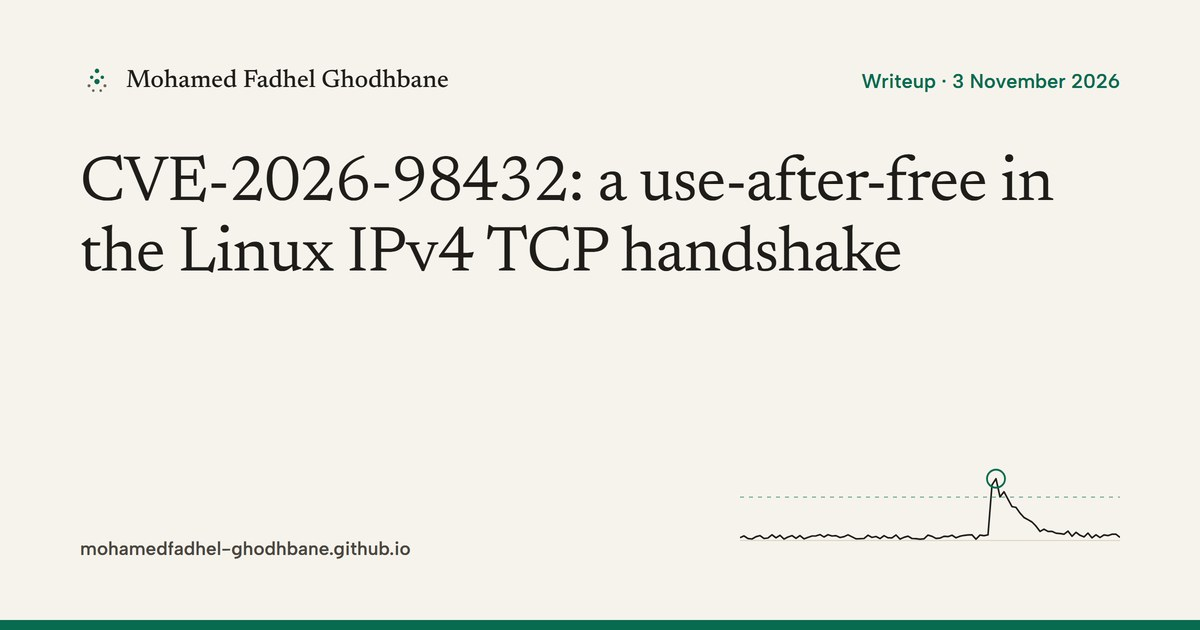
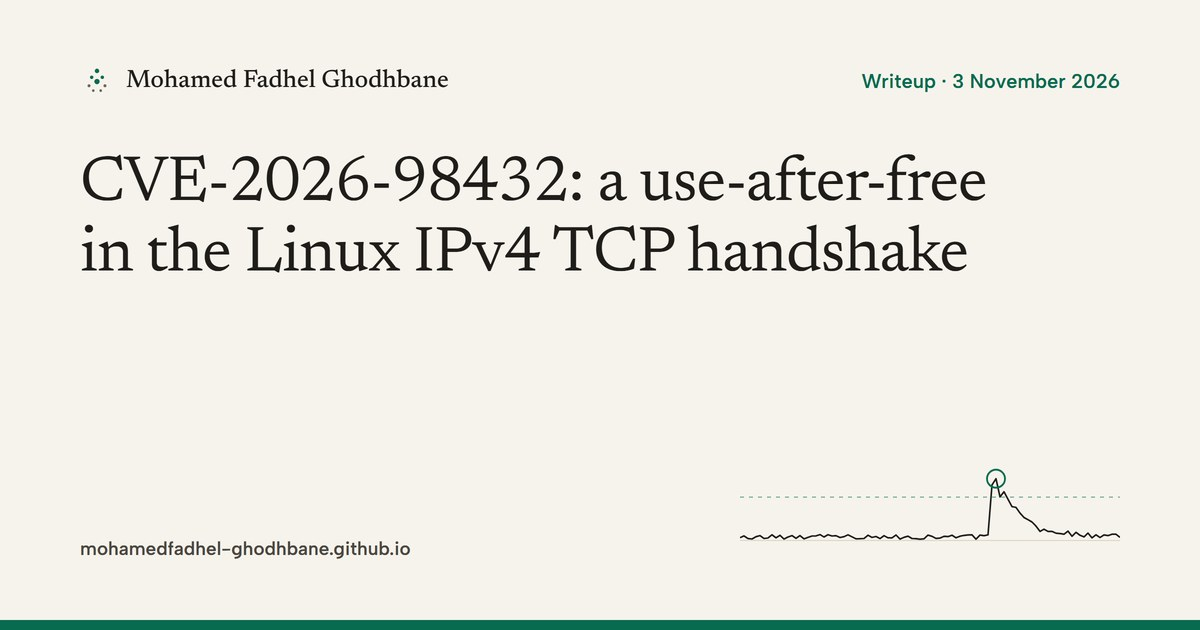
Replace the slogans with what the work is
- Home headline: "Detection engineering for Microsoft security.",
  sized to sit beside the chart and to fit two lines on phones.
- Contact heading: "Need help with Sentinel or Defender XDR?"
- The site-wide preview card uses the article card template with the
  new headline; card titles now balance across lines.

Changed region(s): [[0.0617, 0.3619, 0.8017, 0.4524], [0.8325, 0.2714, 0.8942, 0.3317]]

diff --git a/src/lib/site.ts b/src/lib/site.ts
@@ -9,7 +9,7 @@ export const BASE = import.meta.env.BASE_URL.replace(/\/?$/, '/');
 export const HOME = new URL(BASE, import.meta.env.SITE).href;
 export const PERSON_ID = `${HOME}#person`;
 export const OG_IMAGE = new URL(`${BASE}og-default.jpg`, import.meta.env.SITE).href;
-export const OG_IMAGE_ALT = 'Mohamed Fadhel Ghodhbane, cybersecurity engineer: Every move leaves a trace.';
+export const OG_IMAGE_ALT = 'Mohamed Fadhel Ghodhbane, cybersecurity engineer: detection engineering for Microsoft security.';
 
 // words in the markdown source, minus image and link syntax; code counts, since readers read it too
 export function wordCount(body = ''): number {

diff --git a/tools/og-images.py b/tools/og-images.py
@@ -74,7 +74,7 @@ html, body {{ margin: 0; width: 1200px; height: 630px; overflow: hidden; backgro
 .brand {{ display: flex; align-items: center; gap: 12px; font: 500 25px/1 "OG Serif"; color: #1f1d1a; }}
 .brand svg {{ width: 34px; height: 34px; }}
 .meta {{ font: 600 20px/1 "OG Sans"; color: #086b50; }}
-h1 {{ margin: 52px 0 0; max-width: 1000px; max-height: 300px; font: 400 64px/1.1 "OG Serif"; letter-spacing: -0.015em; color: #1f1d1a; }}
+h1 {{ margin: 52px 0 0; max-width: 1000px; max-height: 300px; font: 400 64px/1.1 "OG Serif"; letter-spacing: -0.015em; color: #1f1d1a; text-wrap: balance; }}
 .bottom {{ margin-top: auto; display: flex; justify-content: space-between; align-items: flex-end; }}
 .url {{ font: 600 19px/1 "OG Sans"; color: #4a4640; }}
 </style></head><body><div class="card">
